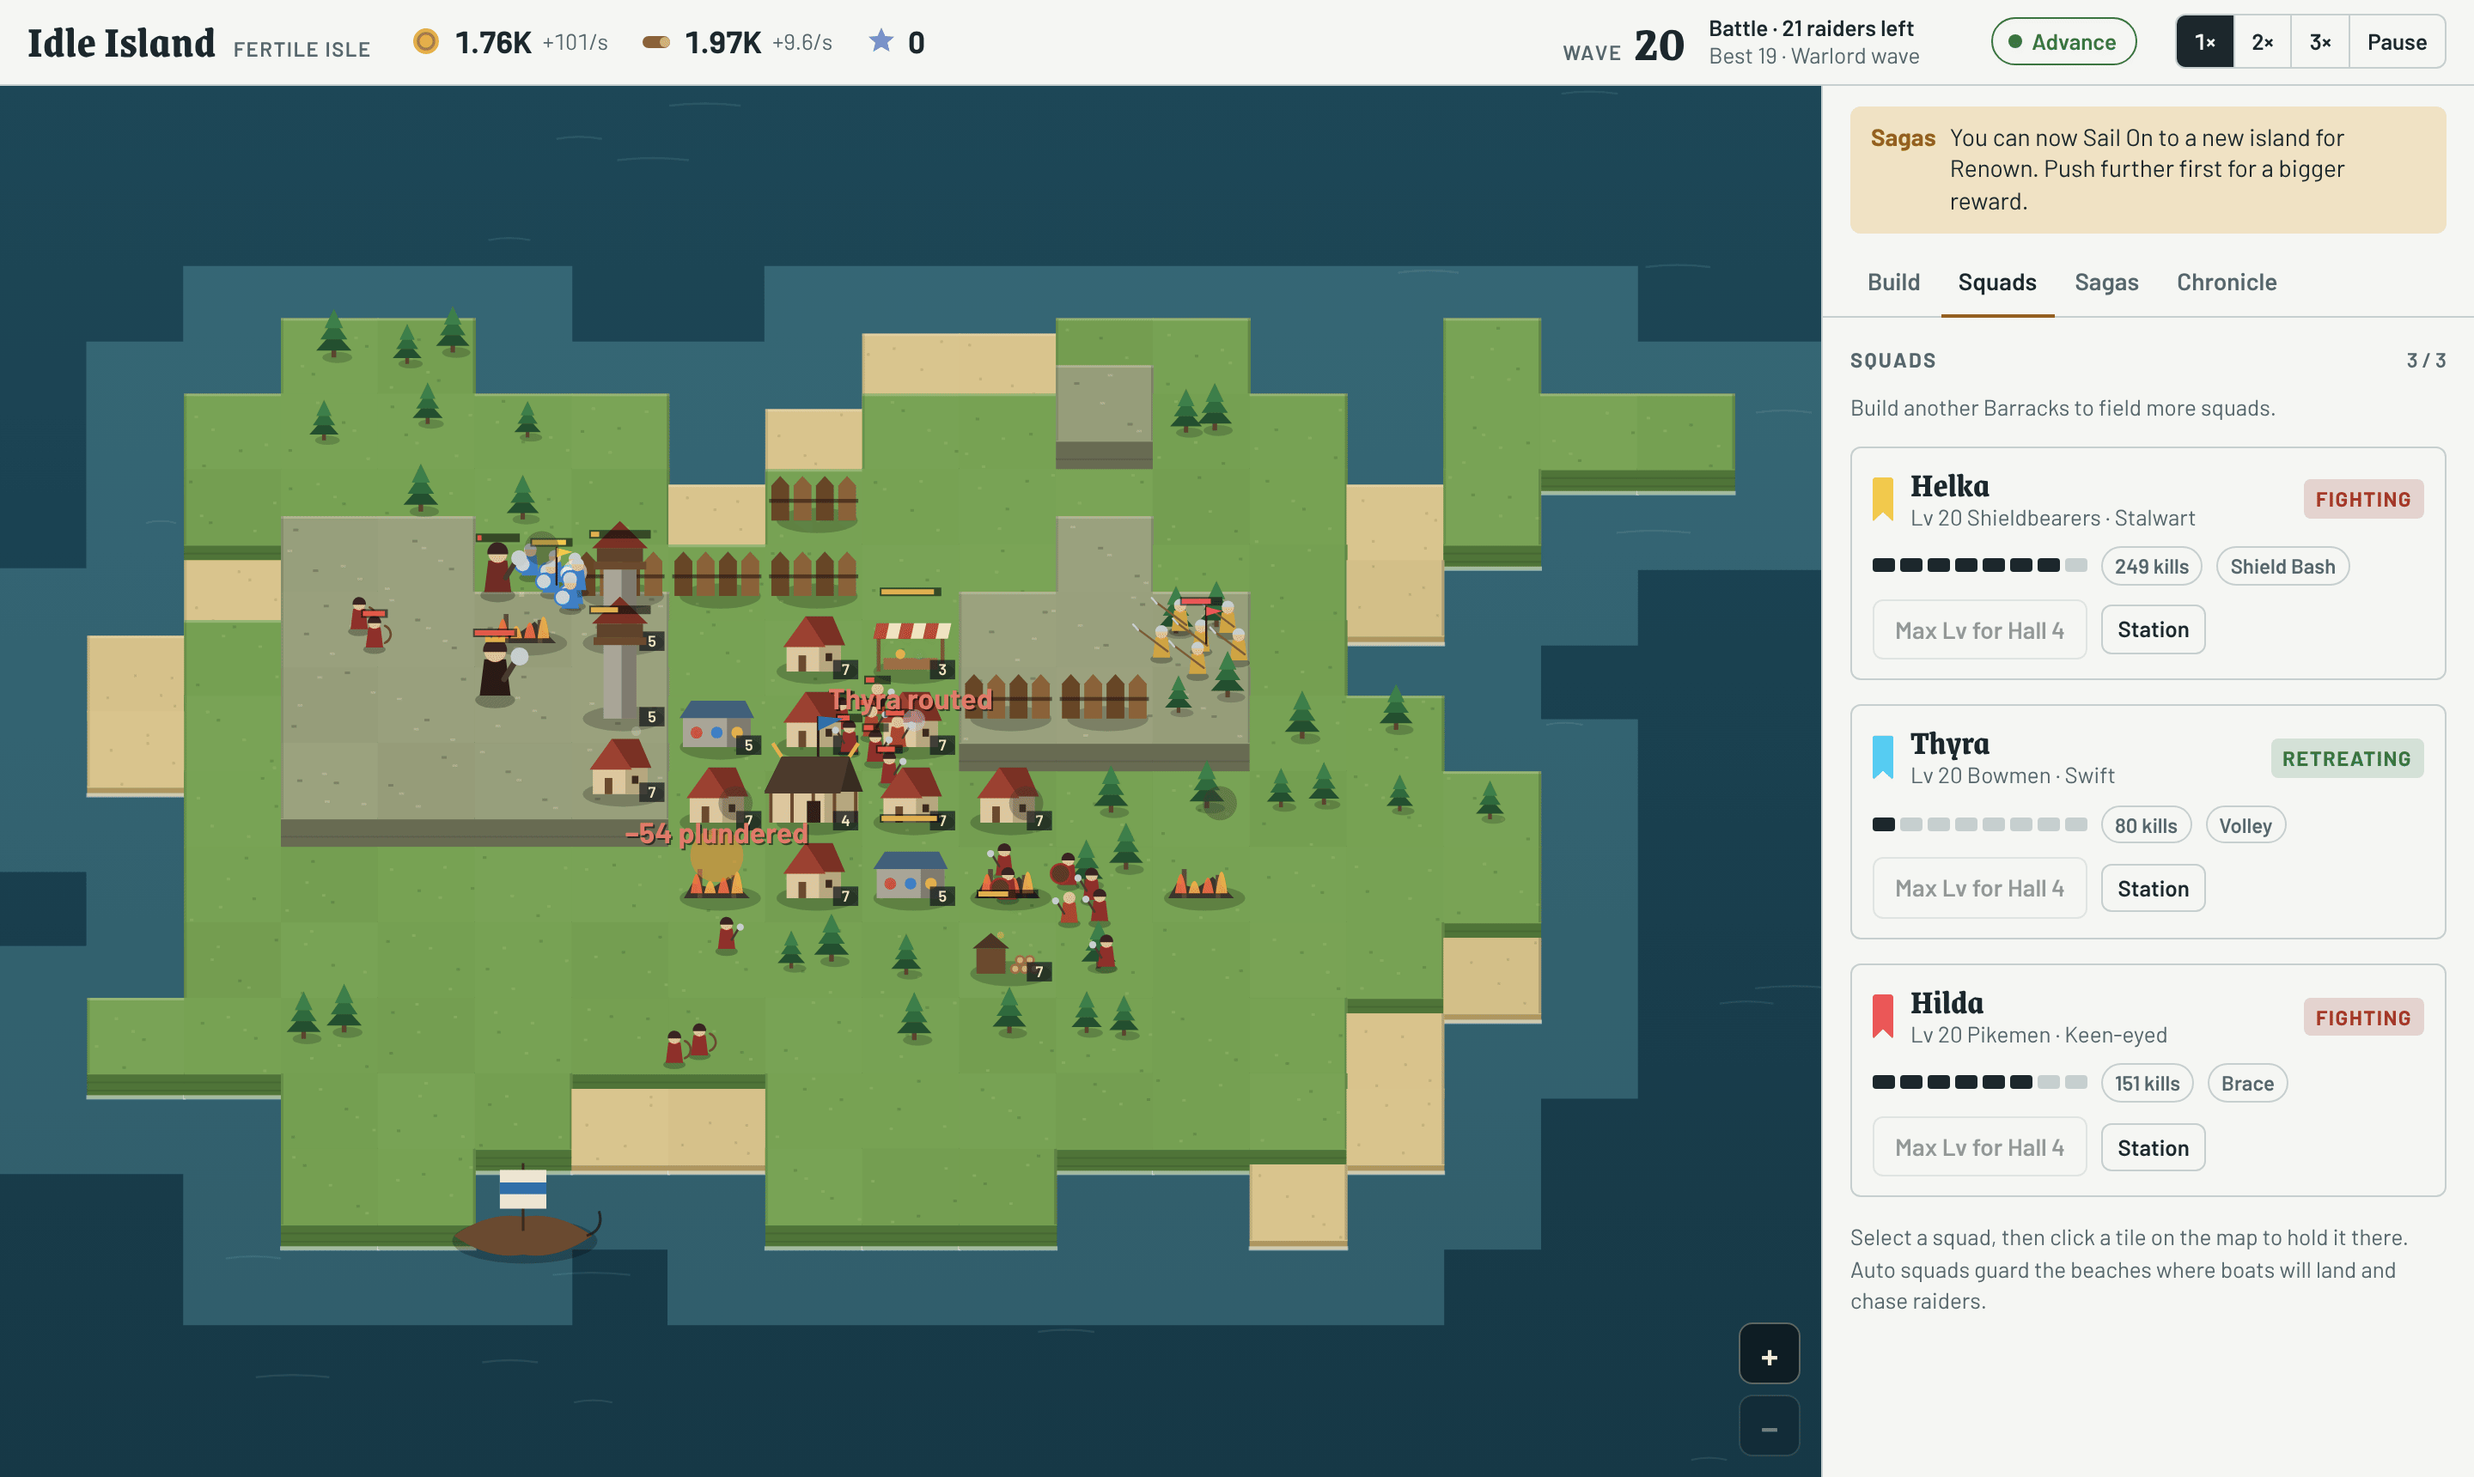
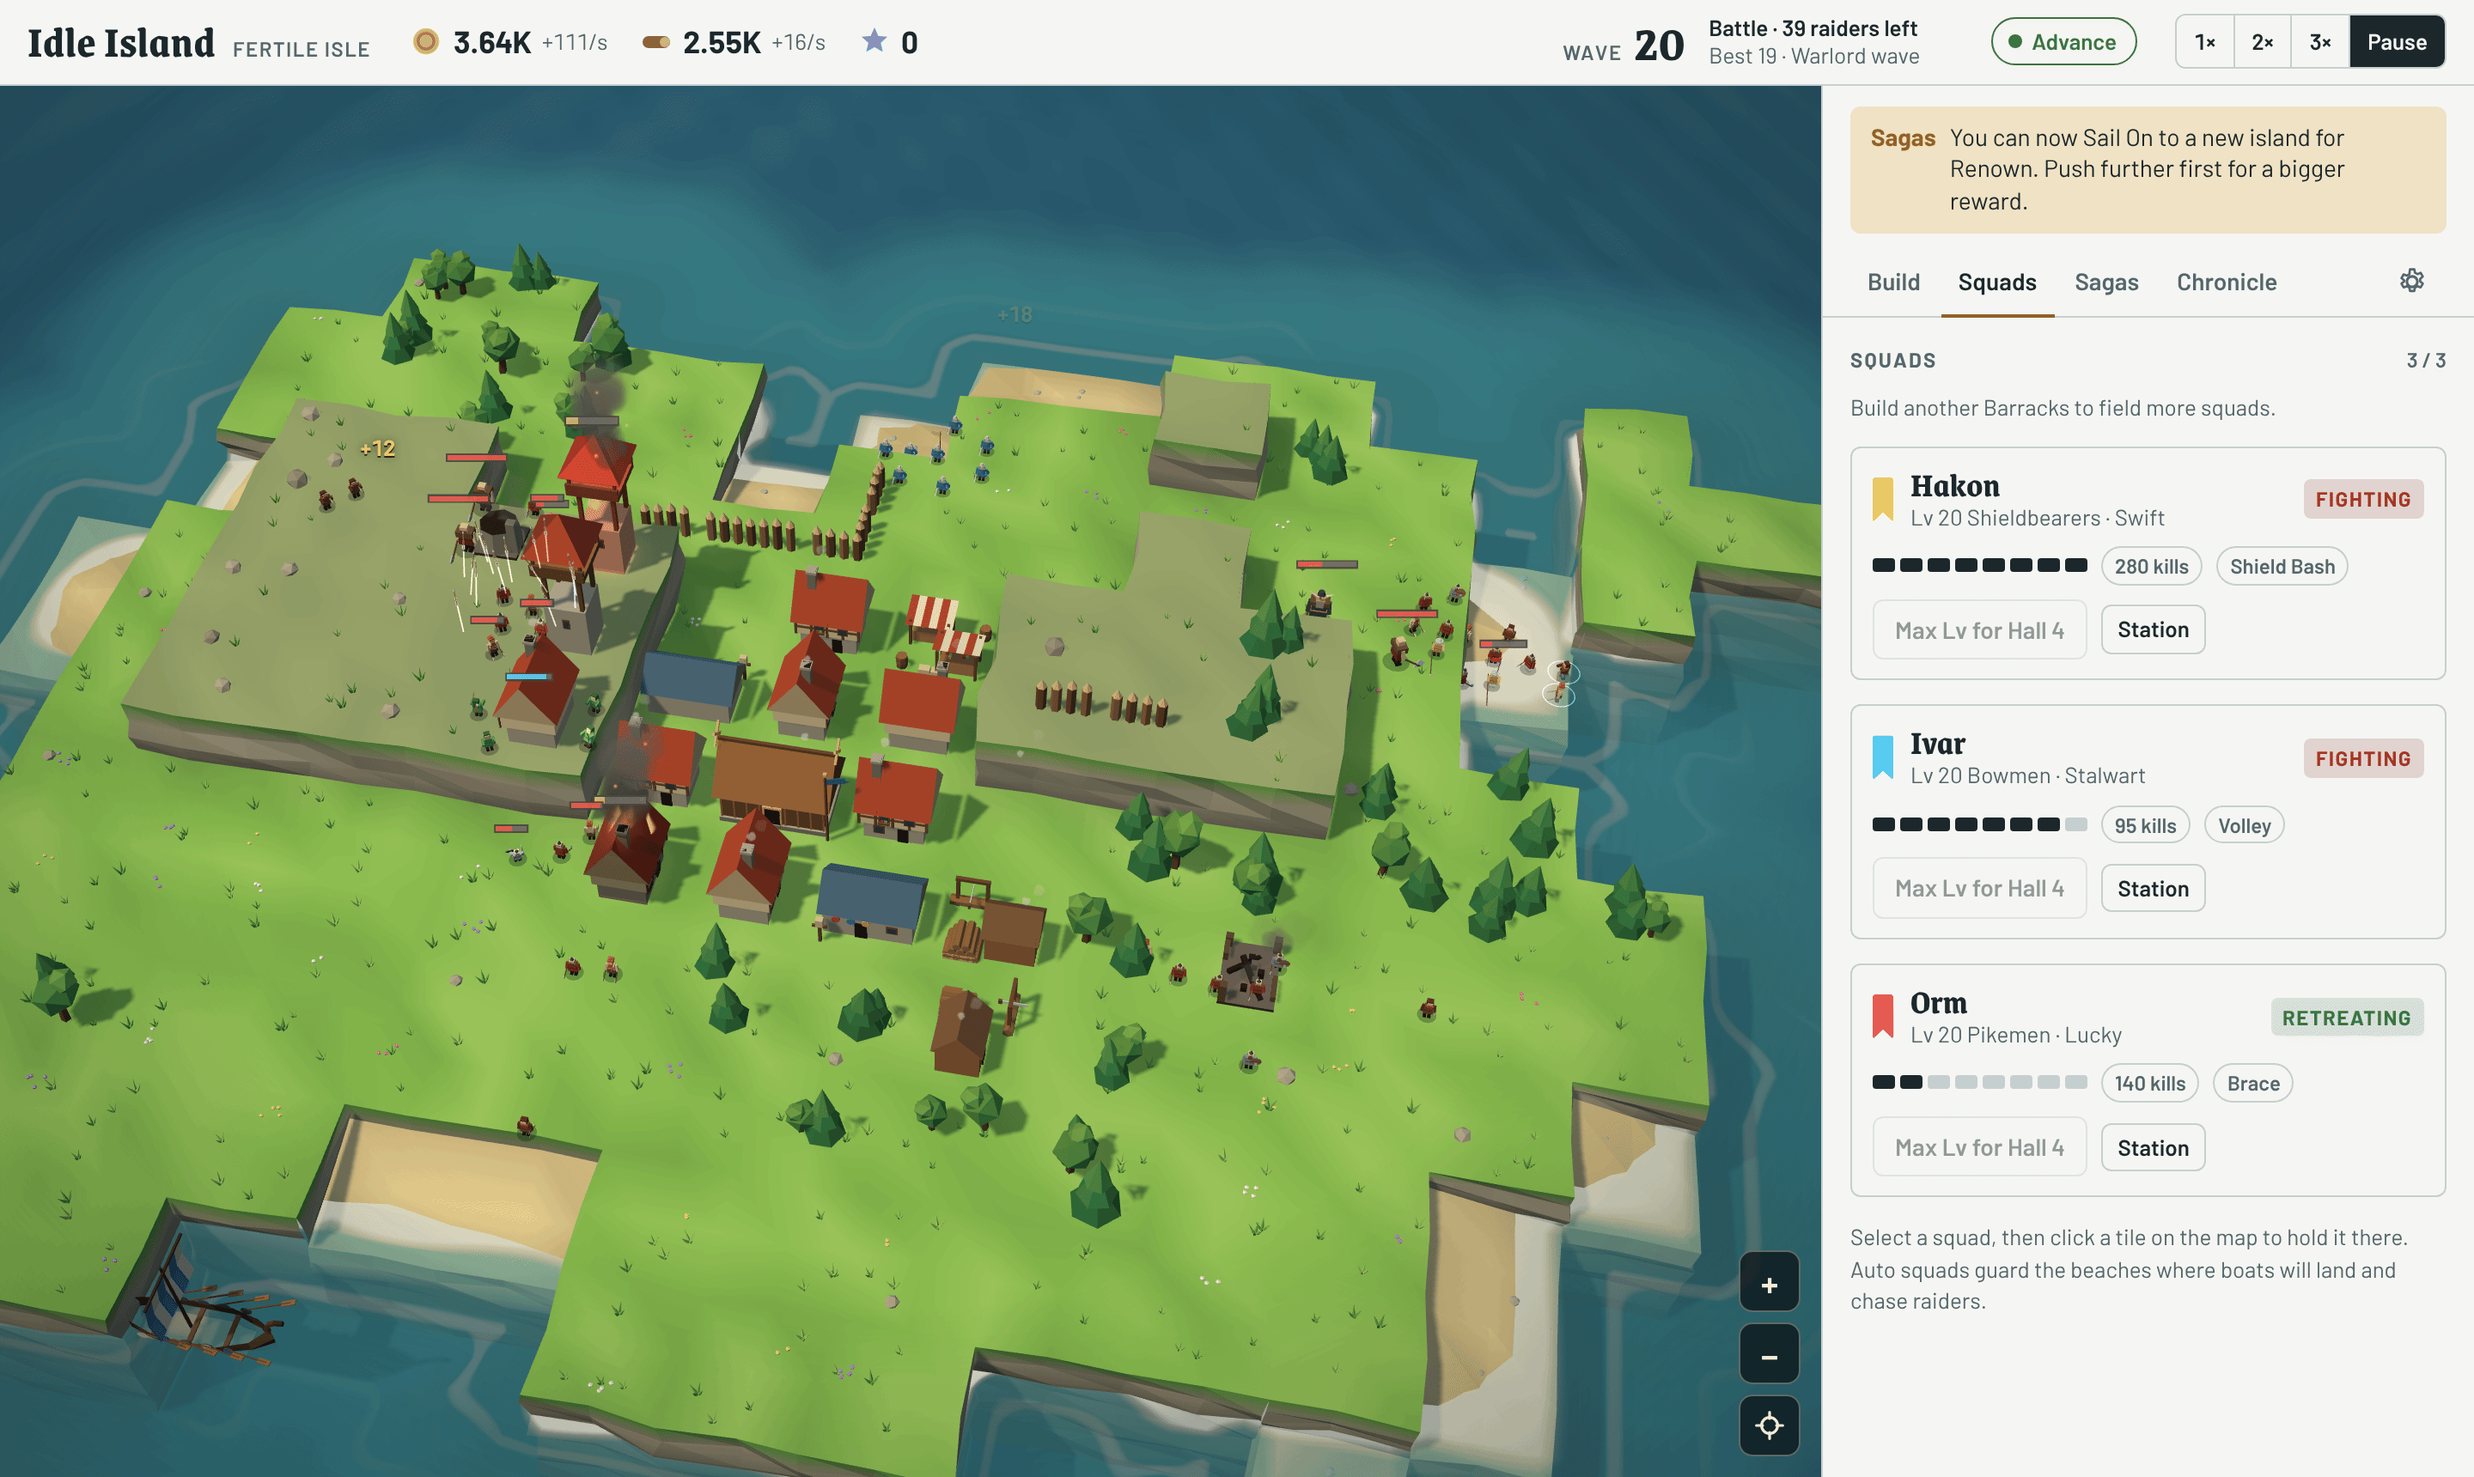
Refresh the README images and docs for the 3D game
New banner, link preview, desktop and phone screenshots and battle GIF
from the 3D view. README describes the 3D island, trait looks, sound,
settings and perf.js. GAME_DESIGN.md adds performance budgets and
measurements, and records keeping the classic 2D map as the fallback
for browsers without WebGL.

Claude-Session: https://claude.ai/code/session_015EQrRryTDNAkdn7y2u93vV

diff --git a/README.md b/README.md
@@ -1,6 +1,6 @@
 <p align="center">
   <a href="https://gorzaweba.github.io/Idle-Island/">
-    <img src="assets/banner.png" alt="Idle Island: a small island settlement of cottages, towers and palisades while red-clad raiders storm its beaches" width="100%">
+    <img src="assets/banner.png" alt="Idle Island at dusk: a low-poly 3D island settlement with lit windows and burning cottages while red-clad raiders storm its beaches" width="100%">
   </a>
 </p>
 
@@ -8,15 +8,15 @@
   <a href="https://gorzaweba.github.io/Idle-Island/"><img alt="Play now in your browser" src="https://img.shields.io/badge/play_now-in_your_browser-e3b04b?style=for-the-badge&labelColor=1a4150"></a>
   <a href="https://gorzaweba.github.io/Idle-Island/"><img alt="Hosted on GitHub Pages" src="https://img.shields.io/badge/hosted_on-GitHub_Pages-f4ecd8?style=for-the-badge&logo=github&logoColor=white&labelColor=1a4150"></a>
   <img alt="Vanilla JavaScript" src="https://img.shields.io/badge/vanilla-JavaScript-f7df1e?style=for-the-badge&logo=javascript&logoColor=f7df1e&labelColor=1a4150">
-  <img alt="No dependencies" src="https://img.shields.io/badge/dependencies-none-77a253?style=for-the-badge&labelColor=1a4150">
+  <img alt="Three.js, vendored, no build step" src="https://img.shields.io/badge/three.js-vendored,_no_build_step-77a253?style=for-the-badge&labelColor=1a4150">
   <img alt="Plays on desktop and mobile" src="https://img.shields.io/badge/plays_on-desktop_%26_mobile-9fb0ee?style=for-the-badge&labelColor=1a4150">
 </p>
 
 <h3 align="center">Hold the isle. The longboats are coming.</h3>
 
 <p align="center">
-  An idle base-defence game for the browser. Settle a small, procedurally generated island, build it up,<br>
-  and keep it standing while raiders row in from every side. Battles fight themselves;<br>
+  An idle base-defence game for the browser, played on a little low-poly 3D island you can turn and zoom.<br>
+  Settle it, build it up, and keep it standing while raiders row in from every side. Battles fight themselves;<br>
   you decide what to build, where to put it, how to train your squads and when to sail on.
 </p>
 
@@ -27,14 +27,15 @@
 </p>
 
 <p align="center">
-  <img src="assets/battle.gif" alt="Animated battle: raiders land on the beaches and squads of shieldbearers, bowmen and pikemen meet them among the cottages" width="720">
+  <img src="assets/battle.gif" alt="Animated 3D battle: the camera circles as raiders fight squads of shieldbearers, bowmen and pikemen among the cottages, one of them burning" width="720">
 </p>
 
 ---
 
 ## ✨ Features
 
-- 🏝 **A new island every run.** Beaches, cliffs, highland and forest are generated from a seed, and each island has a trait such as *Fertile*, *Fogbound* or *Many Shores*.
+- 🏝 **A new island every run.** Beaches, cliffs, highland and forest are generated from a seed, and each island has a trait such as *Fertile*, *Fogbound* or *Many Shores*, which also shows in its look: lush meadows, heather, driftwood, sea stacks or rolling mist.
+- 🎲 **A little world to turn in your hands.** A low-poly 3D diorama you can orbit, pan and zoom, with every model, tree and wave built in code. Surf washes onto the beaches, houses burn and smoke, longboats leave wakes, and at dusk the windows light up.
 - ⛵ **Raiders you can see coming.** Longboats appear on the horizon during the countdown. Markers at the screen edge show where each one will land and how many raiders it carries.
 - 🛡 **Squads with names and personalities.** Each commander has a trait. Promote your militia to Shieldbearers, Bowmen or Pikemen, each with its own automatic ability.
 - 🔥 **Houses that burn.** Raiders torch whatever they reach. Ruins stop producing, and a burning cottage costs you some of your gold.
@@ -124,7 +125,7 @@ Commander traits: *Stalwart*, *Fierce*, *Swift*, *Keen-eyed*, *Hardy*, *Lucky*.
 
 ## 🛠 Run it locally
 
-Clone the repository and open `index.html`. There's no build step, no server and no dependencies.
+Clone the repository and open `index.html`. There's no build step, no server and nothing to install: Three.js and the fonts are in the repository, and every model is built in code.
 
 ```sh
 git clone https://github.com/GorzaWebA/Idle-Island.git
@@ -160,7 +161,7 @@ Choose under **Settings → Pages → Deploy from a branch**:
 | `js/render3d.js` | 3D renderer: scene, lights, shadows, loop hooks, the `VIEW` interface |
 | `js/r3d/*.js` | 3D parts: `builder` (procedural meshes), `terrain`, `sea`, `camera`, `picking`, `models` and `buildings`, `props`, `unitmodels` and `units`, `missiles`, `fx` (particles, fire, foam, glows), `ui3d` (selection, paths, flags), `hud` (boat badges, health bars, labels) |
 | `js/theme3d.js` | Every 3D colour, with daylight and dusk variants |
-| `js/render.js` | The classic 2D map, used when WebGL is unavailable or with `?2d` |
+| `js/render.js` | The classic 2D map: a fallback for browsers without WebGL (or `?2d`) |
 | `js/settings.js` | Player preferences for this device, stored apart from the save |
 | `js/audio.js` | Procedural WebAudio sound effects and surf |
 | `js/ui.js` | Header, tabbed panel (including Settings), map input |
@@ -178,12 +179,13 @@ node tools/balance.js 60 3     # a greedy bot plays 3 islands for 60 game-minute
 node tools/balance.js 45 2 3   # the same, with every Saga at level 3
 node tools/smoke.js            # 3D game in headless Chromium (software WebGL): plays, builds, orbits, zooms, battles, fire and water, markers, settings, sound
 node tools/mobile.js           # touch tests (orbit, pinch, pan, two-tap build, Settings) on phones and a tablet
+node tools/perf.js             # wave-20 battle on a 4x-slowed phone profile and on desktop, plus 20 islands in a row: frame cost, draw calls, memory
 node tools/screenshots.js      # regenerates the images in assets/ (needs ffmpeg for the GIF)
 node tools/build.js            # bundles everything into dist/idle-island.html
 tools/deploy-pages.sh          # publishes the game to the gh-pages branch
 ```
 
-`smoke.js`, `mobile.js` and `screenshots.js` need Playwright with Chromium.
+`smoke.js`, `mobile.js`, `perf.js` and `screenshots.js` need Playwright with Chromium.
 
 ## 🙏 Inspiration
 

diff --git a/GAME_DESIGN.md b/GAME_DESIGN.md
@@ -218,7 +218,8 @@ Phones and tablets get the same game with these adjustments:
 ## 10. 3D rendering
 
 The game is drawn as a small low-poly diorama with Three.js (r159, vendored). The simulation is
-unchanged and still runs headless; the renderer only reads it.
+unchanged and still runs headless; the renderer only reads it. Browsers without WebGL get the
+classic 2D map instead (see *The classic 2D map* below).
 
 ### Architecture
 
@@ -475,6 +476,49 @@ The renderer derives what the sim doesn't store:
   drawn. A boat has run aground when its `state` turns from `sail` to `unload`. Again no sim hook.
 
 Its own per-unit state lives in Maps keyed by id. It never writes to sim objects.
+
+### Performance
+
+Budgets, checked by `node tools/perf.js` (headless Chromium with software WebGL, so it measures
+what the code controls: JavaScript time per frame, draw calls, triangles and memory, not GPU time):
+
+| Scene | Budget | Measured |
+| --- | --- | --- |
+| Wave-20 battle, Pixel 7 profile, CPU slowed 4×, Medium | JS ≤ 12 ms a frame on average, ≤ 24 ms at the 95th percentile, ≤ 150 draw calls, ≤ 150k triangles | 3.6–5.4 ms, 7.1–11.8 ms, 53–54 calls, 55–56k triangles, about 70 units |
+| Same battle on desktop, High | JS ≤ 6 ms average, ≤ 12 ms p95 | 0.9–1.2 ms, 2.0–2.7 ms, 53–56 calls, 48–50k triangles |
+| 20 islands in a row (Sail On) | Geometries and textures back to the same count, heap growth ≤ 6 MB | 27 → 27 geometries, 3 → 3 textures, +0.8 to 0.9 MB |
+
+(Ranges are two runs on a shared machine.)
+
+How it stays cheap:
+
+* **Instancing everywhere**: one draw call per model variant, figure part, prop kind and effect
+  pool. A full battle is about 50 draw calls, whatever the number of units.
+* **Buildings only re-upload when something changed**: a new building, a different tier or ruin,
+  a construction or tier-up animation, a hit flash, or a visible step in damage. A quiet
+  settlement writes nothing to the GPU.
+* **Figures outside the view are animated but not drawn.** When zoomed in on a phone, most are skipped.
+* **No shader re-checks**: every transparent double-sided material sets `forceSinglePass`, and the
+  terrain has its own shadow-depth material. Without these, three.js re-evaluated shader programs
+  for a handful of materials every frame (about half of all per-frame garbage).
+* **Few allocations per frame**: scratch vectors and matrices, typed-array particle pools, cached
+  route and model lookups, and labels moved only when they shift by a whole pixel. Garbage per frame
+  dropped from about 70 KB to about 24 KB; most of what's left is inside three.js's renderer.
+  That works out to a minor collection every several seconds, each well under a millisecond.
+* **Nothing is drawn while the tab is hidden**; the sim's offline catch-up covers the time away.
+* The **quality levels** (above) trade pixels, shadows, effects and grass for speed. Auto quality
+  picks one in the first seconds.
+
+GPU cost can only be judged on real devices. The software renderer used in testing runs at about
+10 to 15 frames a second, and auto quality correctly drops to Low there.
+
+### The classic 2D map
+
+`js/render.js` stays as a fallback for browsers without WebGL (some locked-down or very old
+devices, or WebGL switched off), and for `?2d`. It costs about 36 KB of a 1.2 MB bundle (Three.js
+is most of the rest), it is tested on every smoke run, and it means nobody gets a blank page.
+New 3D-only touches (fire, sound, Settings graphics) don't apply to it. The Settings tab says so,
+and a banner explains the flat map when the fallback kicks in.
 
 ## 11. Balance targets
 
